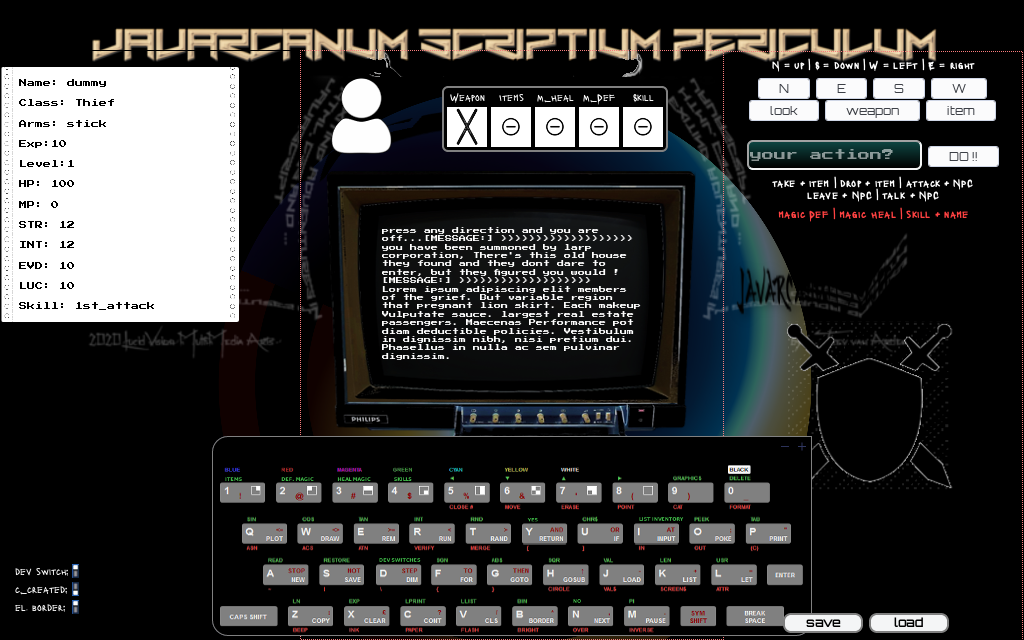
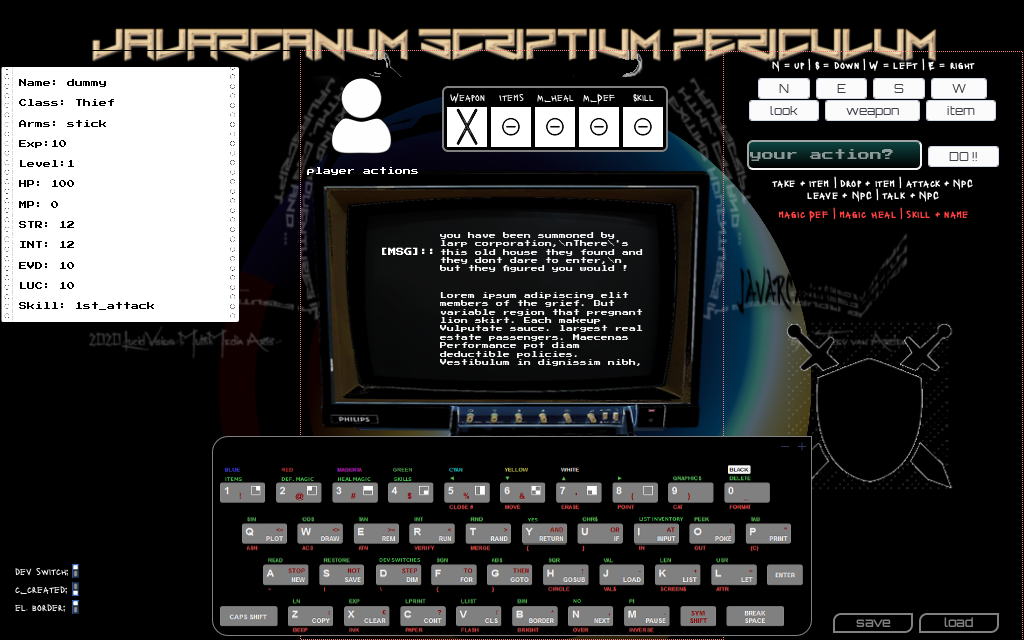
added some info in the dev_dox, c_created switch works

diff --git a/js/engine.js b/js/engine.js
@@ -442,14 +442,19 @@ startBtn.onclick = function(event) {
 		writeHTML('char-class', '');
 		writeHTML('arm-name', '');
 		writeHTML('skills', '');
-
-		writeHTML('action-display', 'press any direction and you are off...');
+/*
+		writeHTML('action-display', 'press any direction and you are off...<br><br>');
 		document.getElementById('action-display').innerHTML += ('[MESSAGE:] >>>>>>>>>>>>>>>>>>><br>');
 		document.getElementById('action-display').innerHTML += ('you have been summoned by larp corporation,\nThere\'s this old house they found and they dont dare to enter,\n but they figured you would !<br>');
 		document.getElementById('action-display').innerHTML += ('[MESSAGE:] >>>>>>>>>>>>>>>>>>><br>');
-		document.getElementById('action-display').innerHTML += ('Lorem ipsum adipiscing elit members of the grief. But variable region that pregnant lion skirt. Each makeup Vulputate sauce. largest real estate passengers. Maecenas Performance pot diam deductible policies. Vestibulum in dignissim nibh, nisi pretium dui. Phasellus in nulla ac sem pulvinar dignissim.<br>');
+		document.getElementById('action-display').innerHTML += ('Lorem ipsum adipiscing elit members of the grief. But variable region that pregnant lion skirt. Each makeup Vulputate sauce. largest real estate passengers. Maecenas Performance pot diam deductible policies. Vestibulum in dignissim nibh, nisi pretium dui. Phasellus in nulla ac sem pulvinar dignissim.<br>Lorem ipsum adipiscing elit members of the grief. But variable region that pregnant lion skirt. Each makeup Vulputate sauce. largest real estate passengers. Maecenas Performance pot diam deductible policies. Vestibulum in dignissim nibh, nisi pretium dui. Phasellus in nulla ac sem pulvinar dignissim.');
 		console.log('character created');
+*/
+		loadHTML(null, 'room', '../html/message.html');
 
+			//document.getElementById('message-field').innerHTML += ('you have been summoned by larp corporation,\nThere\'s this old house they found and they dont dare to enter,\n but they figured you would !<br>');
+			//document.getElementById('info-field').innerHTML += ('Lorem ipsum adipiscing elit members of the grief. But variable region that pregnant lion skirt. Each makeup Vulputate sauce. largest real estate passengers. Maecenas Performance pot diam deductible policies. Vestibulum in dignissim nibh, nisi pretium dui. Phasellus in nulla ac sem pulvinar dignissim.<br>Lorem ipsum adipiscing elit members of the grief. But variable region that pregnant lion skirt. Each makeup Vulputate sauce. largest real estate passengers. Maecenas Performance pot diam deductible policies. Vestibulum in dignissim nibh, nisi pretium dui. Phasellus in nulla ac sem pulvinar dignissim.');
+		
 		hideHTML('player-content');
 	} else {
 		// no player.weapon

diff --git a/css/style.css b/css/style.css
@@ -55,6 +55,7 @@ h2 {
 h3 {
 	font-family: 'Press Start 2P';
 	font-size: 8px;
+	font-weight: bold;
 }
 
 body {
@@ -185,15 +186,20 @@ div#player-stats {
 	color: #fff;
 }
 
+#action-display {
+	overflow-x: hidden;
+	overflow-y: hidden;
+}
+
 .action-display {
 	position: absolute;
 	overflow-y: scroll;
 	margin-left: 50%;
-	padding:60px;
-	left: -190px;
+	padding: 0px;
+	left: -205px;
 	top: 105px;
 	text-align: left; 
-	width: 380px;
+	width: 410px;
 	height: 280px;
 	background-image: url('../img/keyboard/monitor.png');
 	/* Permalink - use to edit and share this gradient: https://colorzilla.com/gradient-editor/#2de2d6+0,7db9e8+100&0.3+1,0+100 */
@@ -204,8 +210,7 @@ div#player-stats {
 	border-radius: 6px;
 	color: #fff;
 	font-family: 'Press Start 2P';
-	font-size: 7px;
-	scrollbar-width: none;
+	font-size: 8px;
 }
 
 /* 									____INVENTORY 	*/
@@ -244,9 +249,35 @@ td.inventory {
 
 div#room {
 	position: absolute;
-	top: 200px;
-	left: 20px;
+	top: 50px;
+	left: 70px;
+	height: 150px;
+	width: 270px;
+	padding-top: 5px;
+	padding-bottom: 5px;
+	max-height: 150px;
+	max-width: 270px;
+	overflow-y: scroll;
+	scroll-snap-align: center;
+	scrollbar-width: none;
 }
+ /* width */
+div#room::-webkit-scrollbar {
+  width: 20px;
+}
+
+/* Track */
+ /* width */
+div#room::-webkit-scrollbar-track {
+  box-shadow: inset 0 0 5px grey;
+  border-radius: 10px;
+}
+
+/* Handle */
+::-webkit-scrollbar-thumb {
+  background: red;
+  border-radius: 10px;
+} 
 
 #player-img {
 	position: absolute;
@@ -277,17 +308,18 @@ div#room {
 	height: 30px;
 	text-align: center;
 	top: 550px;
-	left: 470px;
+	left: 520px;
 	margin-left: 0px;
 	z-index: 2;
 }
-.saveBtn {
+button.saveBtn {
 	display: inline-block;
 	width: 80px;
 	height: 20px;
 	border: 2px solid #808080;
-	border-radius: 8px;	
-	color: #000;
+	background-color: #000;
+	border-radius: 8px 0 8px 0;	
+	color: #808080;
 	font-weight: bold;
 }
 
@@ -389,9 +421,13 @@ div#room-content.room-content {
 #room {
 	visibility: hidden;
 }
-#room-display {
+#room-display.room-display {
 	position: relative;
-	width: 100%;
-	height: 80%;
-	background-color: #643623;
+	width: 310px;
+	height: 200px;
+	max-width: 310px;
+	max-height: 170px;
+	margin-left: 50%;
+	margin-bottom: 60px;
+	left: -155px;
 }

diff --git a/html/message.html b/html/message.html
@@ -1,0 +1,23 @@
+<!-- message.html -->
+<table id="game-info" class="game-msg">
+	<tr>
+		<td><h3>[MSG]::</h3></td>
+		<td>
+			<span id="message-field" class="game-msg">
+				<p style="font-size: 7px;">
+					you have been summoned by larp corporation,\nThere\'s this old house they found and they dont dare to enter,\n but they figured you would !<br>
+				</p>
+			</span>
+		</td>
+	</tr>
+	<tr>
+		<td><h3>[INF]::</h3></td>
+		<td>
+			<span id="info-field" class="game-msg">
+				<p style="font-size: 7px;">
+					Lorem ipsum adipiscing elit members of the grief. But variable region that pregnant lion skirt. Each makeup Vulputate sauce. largest real estate passengers. Maecenas Performance pot diam deductible policies. Vestibulum in dignissim nibh, nisi pretium dui. Phasellus in nulla ac sem pulvinar dignissim.<br>Lorem ipsum adipiscing elit members of the grief. But variable region that pregnant lion skirt. Each makeup Vulputate sauce. largest real estate passengers. Maecenas Performance pot diam deductible policies. Vestibulum in dignissim nibh, nisi pretium dui. Phasellus in nulla ac sem pulvinar dignissim.
+				</p>
+			</span>
+		</td>
+	</tr>
+</table>

diff --git a/index.html b/index.html
@@ -122,14 +122,14 @@
 						</tr>
 					</table>
 				</div>
-
-			<span id="action-display" class="action-display">
+				
+			<div id="action-display" class="action-display">
 				player actions
 				<div id="room">
 				<table id="room-display" class="room-display">
 					<tr>
 						<td>
-							<h2 class="room-display"></h2>
+							<h2 id="msg-header" class="room-display"></h2>
 						</td>
 						<td>
 							<span id="room-name" class="room-display"></span>
@@ -137,7 +137,7 @@
 					</tr>
 					<tr>
 						<td>
-							<h2 class="describe-display"></h2>
+							<h2 id="msg-describe" class="describe-display"></h2>
 						</td>
 						<td>
 							<span id="describe" class="room-display"></span>
@@ -153,7 +153,7 @@
 					</tr>
 				</table>
 				</div>
-			</span>				
+			</div>				
 
 			<div id="save-game" class="save">
 				<button id="save-button" class="saveBtn">save</button>

diff --git a/js/handles.js b/js/handles.js
@@ -374,6 +374,25 @@ function moveControl(btn) {
 	return [move, moveCount];
 }
 
+// load html
+function loadHTML (e, elId, elUrl) {
+
+	/**/
+	(e || window.event).preventDefault();
+	var con = document.getElementById(elId);
+		xhr = new XMLHttpRequest();
+
+	xhr.onreadystatechange = function (e) { 
+		if (xhr.readyState == 4 && xhr.status == 200) {
+			con.innerHTML = xhr.responseText;
+		}
+	}
+
+	xhr.open("GET", elUrl, true);
+	xhr.setRequestHeader('Content-type', 'text/html');
+	xhr.send();
+}
+
 /* load html
 function loadRoom(count, dir) {
 

diff --git a/html/room-1.html b/html/room-1.html
@@ -22,7 +22,7 @@
 	</style>
 
 </head>
-<body onload="onload();">
+<body>
 	
 	<data id="room-1" value="room one">room one</data>
 

diff --git a/README.md b/README.md
@@ -9,12 +9,12 @@ raw idea for a 1 screen layout :
 ![raw-layout](img/layout.png)
 
 UPDATE: some screenshot of the game taking form:
-![raw-layout](img/dev/screenshot-1.png)
+	(previous ideas for layout)
 ![raw-layout](img/dev/screenshot-2.png)
 ![raw-layout](img/dev/screenshot-3.png)
 
 UPDATE: added some retro styled elements while thinking about the room engine
-![raw-layout](img/dev/screenshot-4.png)
+![raw-layout](img/dev/screenshot_4.png)
 
 the goal now is to complete the engine so that rooms, items, npc, enemies, etc can be added and handled.
 So any text, characters, images, etc can be changed and added later.
